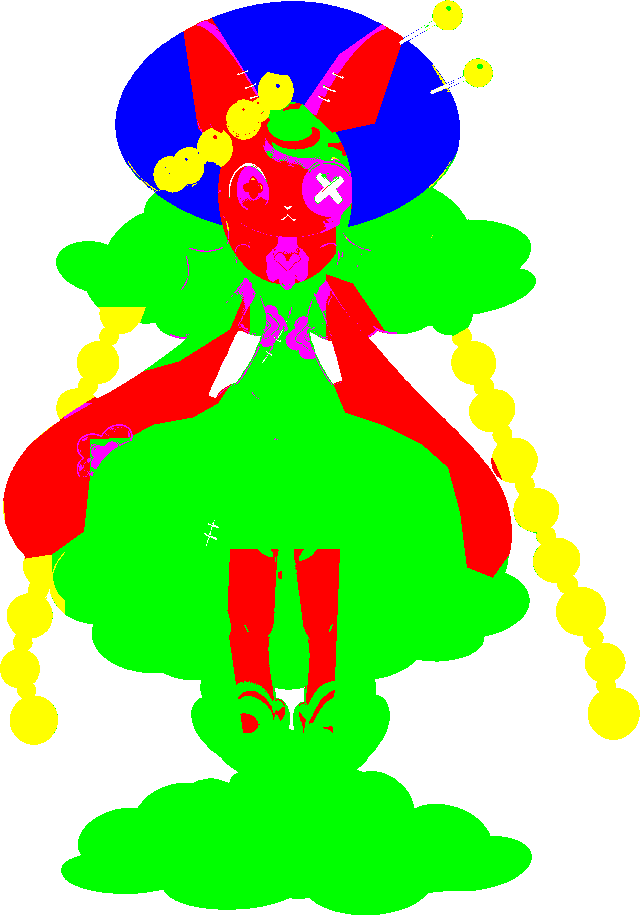
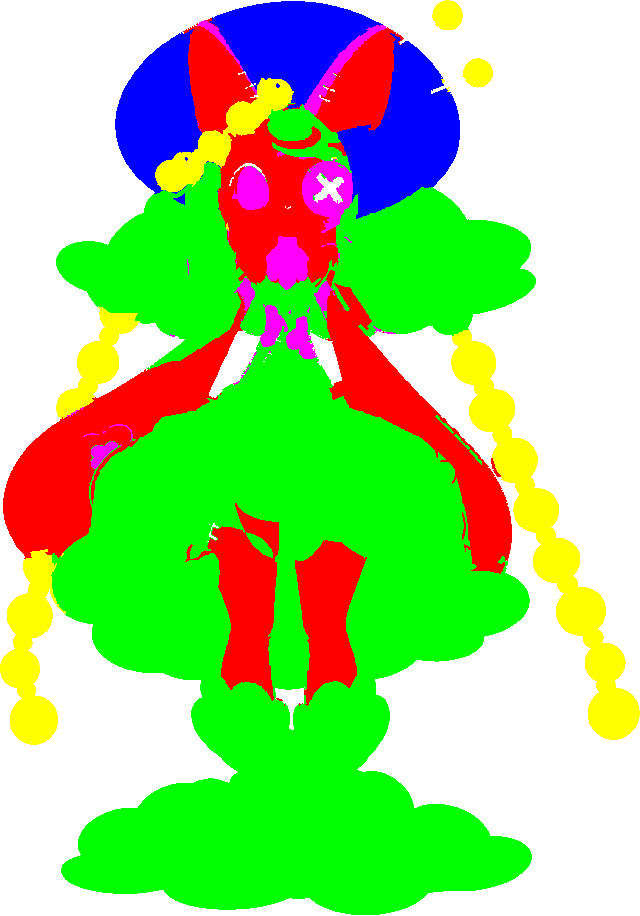
染色マスクの見直し: ドリーミィの脚・ボタンの目・顔の横の雲
脚の中の四角い所だけが体の毛①で、まわりは雲②になっていた(縦の直線の切れ目)。脚の色(黄〜橙)だけを①からたどって
広げた。ボタンの目の中の花を⑤(区分け「⑤=ボタンの目」)へ、顔の左下の雲に入っていた③(帽子)を②へ戻した。

Claude-Session: https://claude.ai/code/session_01FMnScf6fx7a1Bakahouj7w

diff --git a/monster-hero/index.html b/monster-hero/index.html
@@ -102,7 +102,7 @@ var GAME_BUILD = 'a5acb75e904e';
 window.__mhGameBuild = GAME_BUILD;
 // 画面に出す版の日時(BUILD_DATE)。本体の中に書くと、ビルドのたびに本体の中身(と GAME_BUILD)が変わり、
 // 事前ダウンロードにためた本体が使えなくなるので、ここから渡す。tools/stamp-version.js が version.json と同じ値を打つ
-window.__mhBuildDate = '2026-10-27 04:22';
+window.__mhBuildDate = '2026-10-27 04:27';
 // 起動でいちばん大きいのは本体JS(約2.7MB)。いちばん後ろで読むため、そこへ来ると
 // ゲージが止まって見えていた。先に取りはじめて、受け取ったバイト数をそのまま出す。
 // ここで取ったものはブラウザのキャッシュに載るので、下の <script> は取り直さない
@@ -2245,7 +2245,7 @@ window.__mhBoot.prefetch('game-system.compiled.js', 'game-system.compiled.js?v='
 <body>
 <div id="loading"><div class="static-mocchi"><img id="static-mocchi-image" alt="モッチー"><span></span></div><section class="static-copy"><h1>NOW LOADING</h1><h2>冒険の準備をしています</h2><div class="static-progress"><span></span></div><strong>0%</strong><p>ゲームシステムを起動中</p></section></div>
 <div id="root"></div>
-<script src="data/images/images-ally.js?v=0ae57e5e9467" onload="__mhBoot.done('data/images/images-ally.js','モンスターの絵を読み込み中')" onerror="__mhBoot.fail('data/images/images-ally.js')"></script>
+<script src="data/images/images-ally.js?v=54df358a0edc" onload="__mhBoot.done('data/images/images-ally.js','モンスターの絵を読み込み中')" onerror="__mhBoot.fail('data/images/images-ally.js')"></script>
 <script>try{document.getElementById('static-mocchi-image').src=MOCCHI_IMG}catch(e){}</script>
 <script src="data/images/images-enemy.js?v=f10f6ad82110" onload="__mhBoot.done('data/images/images-enemy.js','敵モンスターの絵を読み込み中')" onerror="__mhBoot.fail('data/images/images-enemy.js')"></script>
 <script src="data/ally-monsters.js?v=51d6430d98dd" onload="__mhBoot.done('data/ally-monsters.js','モンスターデータを読み込み中')" onerror="__mhBoot.fail('data/ally-monsters.js')"></script>

diff --git a/tools/image/refine-dye-mask.js b/tools/image/refine-dye-mask.js
@@ -45,6 +45,15 @@ const CONFIGS = {
   // 頭のてっぺんの暗い紫(明るさ0.36〜0.47)は後ろの髪②なのに、四角い③(光る髪)のかたまりになっていた。
   // ②から、明るさ0.5以下の画素をたどって③へ広げる(光る髪は明るいので動かない)
   Illumine: { grow: [{ from: 2, to: 1, diff: 40, val: [0, 0.5], box: [230, 60, 580, 280] }] },
+  // 脚は体の毛①なのに、脚の中の四角い所だけが①で、まわりは雲②になっていた。脚は赤茶のふちの線で囲まれているので、
+  // ①から色の差の小さい画素をたどって広げる(ふちの線で止まる)
+  // ボタンの目の中の花(水色)は⑤(区分け「⑤=ボタンの目」)なのに①だった。⑤から、目の中だけたどる。
+  // 顔の左下の雲(淡い桃・水色)に③(帽子)が入り込んでいたので、②からたどって戻す
+  Dreamy: { grow: [
+    { from: 1, to: 0, diff: 25, hue: [12, 58], sat: [0.15, 1], box: [150, 480, 420, 712] },
+    { from: 0, to: 4, diff: 90, hue: [170, 358], box: [232, 160, 275, 220] },
+    { from: 2, to: 1, diff: 30, box: [185, 160, 255, 220] },
+  ] },
   // 黒目は彩度1.0、まぶたの黄色は0.57なので、彩度0.85以上の画素だけ進む
   // 黒目のふちの暗い帯も黒目なので、暗い画素(線の扱い)も進む(lines)
   Suezo: { grow: [{ from: 0, to: 1, diff: 40, sat: [0.85, 1], lines: true, box: [400, 360, 760, 690] }] },

diff --git a/monster-hero/data/images/images-ally.js b/monster-hero/data/images/images-ally.js
@@ -168,7 +168,7 @@ const KUROMY_DYE_MASK = "images/monsters/kuromy-dye-mask.PNG?v=7e06f8e564b2";
 // 元絵は tools/art-sources/new-monsters-2026-10-22/。透明な余白を切って高さ916pxへ縮め、256色へ減色(グラデーションの段が出ないよう誤差拡散)
 const ILLUMINE_IMG = "images/monsters/illumine.png?v=856c3192a848";
 const ILLUMINE_DYE_MASK = "images/monsters/illumine-dye-mask.PNG?v=ecdc51013525";
-const DREAMY_DYE_MASK = "images/monsters/dreamy-dye-mask.PNG?v=0a38c9def40d";
+const DREAMY_DYE_MASK = "images/monsters/dreamy-dye-mask.PNG?v=c6419eaba43c";
 const DREAMY_IMG = "images/monsters/dreamy.png?v=14e1f738cec9";
 // 新しい16種(2026-10-24・まだ味方には入れていない)。ファイル名はカードの種族名(data/card-battle-cards.js の species)。
 // 元絵は tools/art-sources/new-monsters-2026-10-24/。透明な余白を切って高さ916pxへ縮め、256色へ減色。

diff --git a/docs/progress/dye-mask-review/README.md b/docs/progress/dye-mask-review/README.md
@@ -23,7 +23,7 @@
 | 4 | タイガー `Tiger` | 大 | あご下・胸の陰になった白い毛が体の部位。右後ろ足が縦一直線で切れる。尾の先の白は染まらない(四角い範囲の外) | **直した**(`tiger.png`)。白い毛を色で②へ。尾の先の白は今までどおり染めない(分け方の話なので部長に案) |
 | 5 | エイキ `Eiki` | 大 | 白い鎧のふちに塗り残しの白い筋。足元の花びらに桃色の点が多数。顔まわりの境目が線の2〜3画素内側。房飾りが1本の中で①と③に縦に切れている・羽の内側の濃い紫が③と染めないのまだら | 区分けを部長に質問中(`eiki-question.jpg`) |
 | 6 | イルミネ `Illumine` | 大 | 頭のてっぺんに四角い部位の区切り(下のふちがざらざら)、濃い色で頭に横帯の色むら。フードの2色の境目に点が散る | **直した**(`illumine.png`)。頭の暗い紫を②へ(明るさ0.5以下を②からたどる)。残り: 左の髪飾りのまわり(x 300〜315・y 170〜200)に③の小さなかたまり、脚のあいだの光る筋に小さな出っぱり2つ |
-| 7 | ドリーミィ `Dreamy` | 大 | 足に四角い切れ目(形で決めた跡)。目のまわり・胸の飾りに点が散る | これから |
+| 7 | ドリーミィ `Dreamy` | 大 | 足に四角い切れ目(形で決めた跡)。目のまわり・胸の飾りに点が散る | **直した**(`dreamy.png`)。脚を①へ(脚の色だけ①からたどる)・ボタンの目の花を⑤へ・顔の左下の雲に入った③を②へ。残り: 左脚の付け根の縫い目のまわり(x 205〜215・y 505〜545)が②のまま、胸の飾りまわりの点(4倍の3段目)は区分けが細かく直していない |
 | 8 | おぼろ `Oboro` | 大 | 花びらの中の水色のぼかしが塗り残しでギザギザ。左右の花の下が横一直線に切れる | これから |
 | 9 | スエゾー `Suezo` | 大 | 瞳のふちが点線状に塗り残し(白で瞳のまわりに点線)。黒目の下半分と右のふちが体の部位。外側の輪郭に白い点の列 | **直した**(`suezo.png`)。黒目全体を②・瞳のふちの点線を消した |
 | 10 | ゴーレム `Golem` | 大 | 腕と体・足の境目が石の切れ目ではなく縦横の一直線(x=0.3/0.7・y=0.82)。肩の石が半分に切れる | 部長に案(肩の石を腕・体どちらにするか) |
@@ -72,6 +72,7 @@
 | タイガー | `tiger.png` |
 | スエゾー | `suezo.png` |
 | イルミネ | `illumine.png` |
+| ドリーミィ | `dreamy.png` |
 
 ## 訂正(2026-10-27)
 
